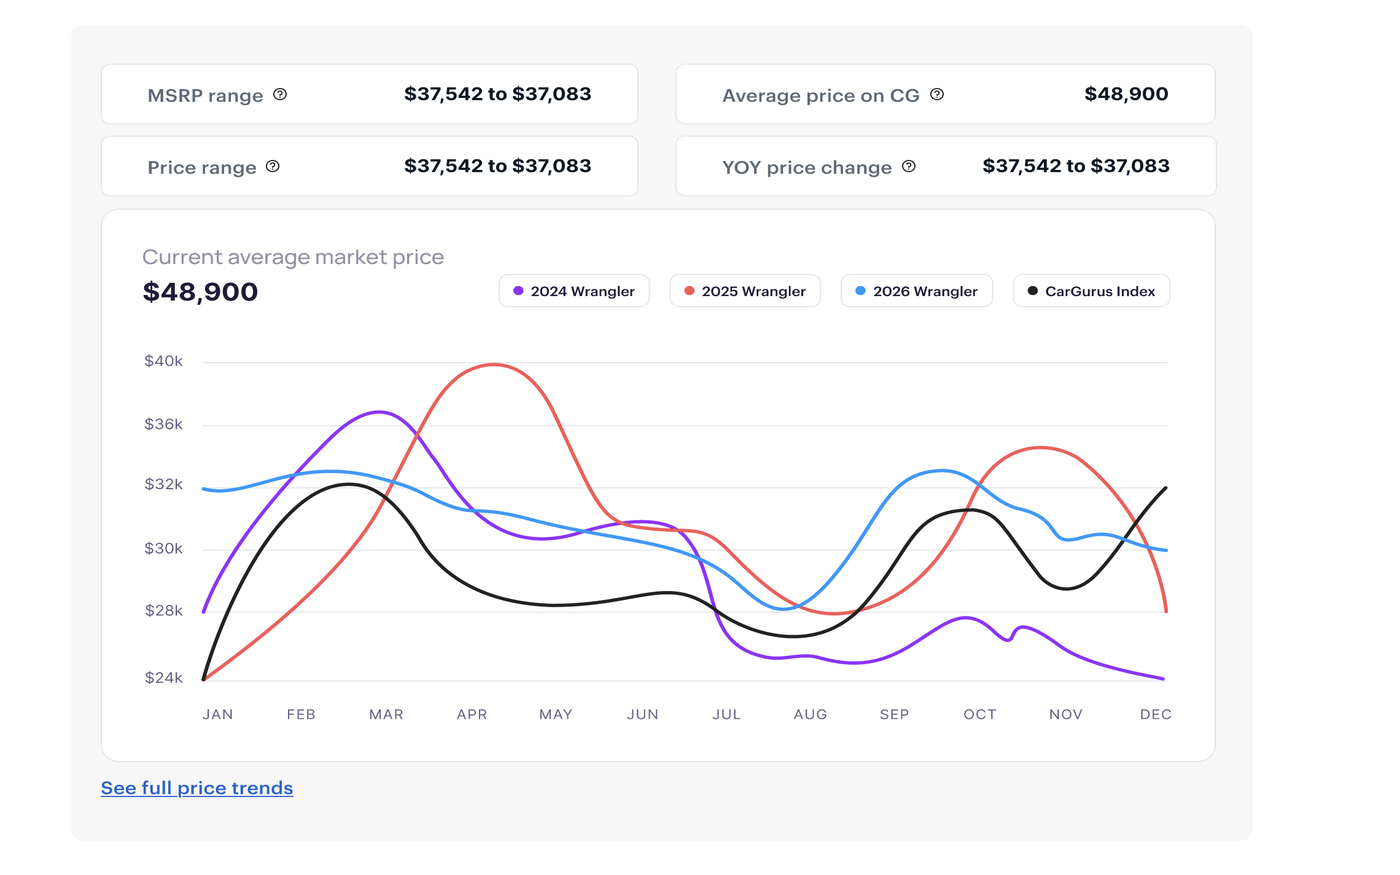
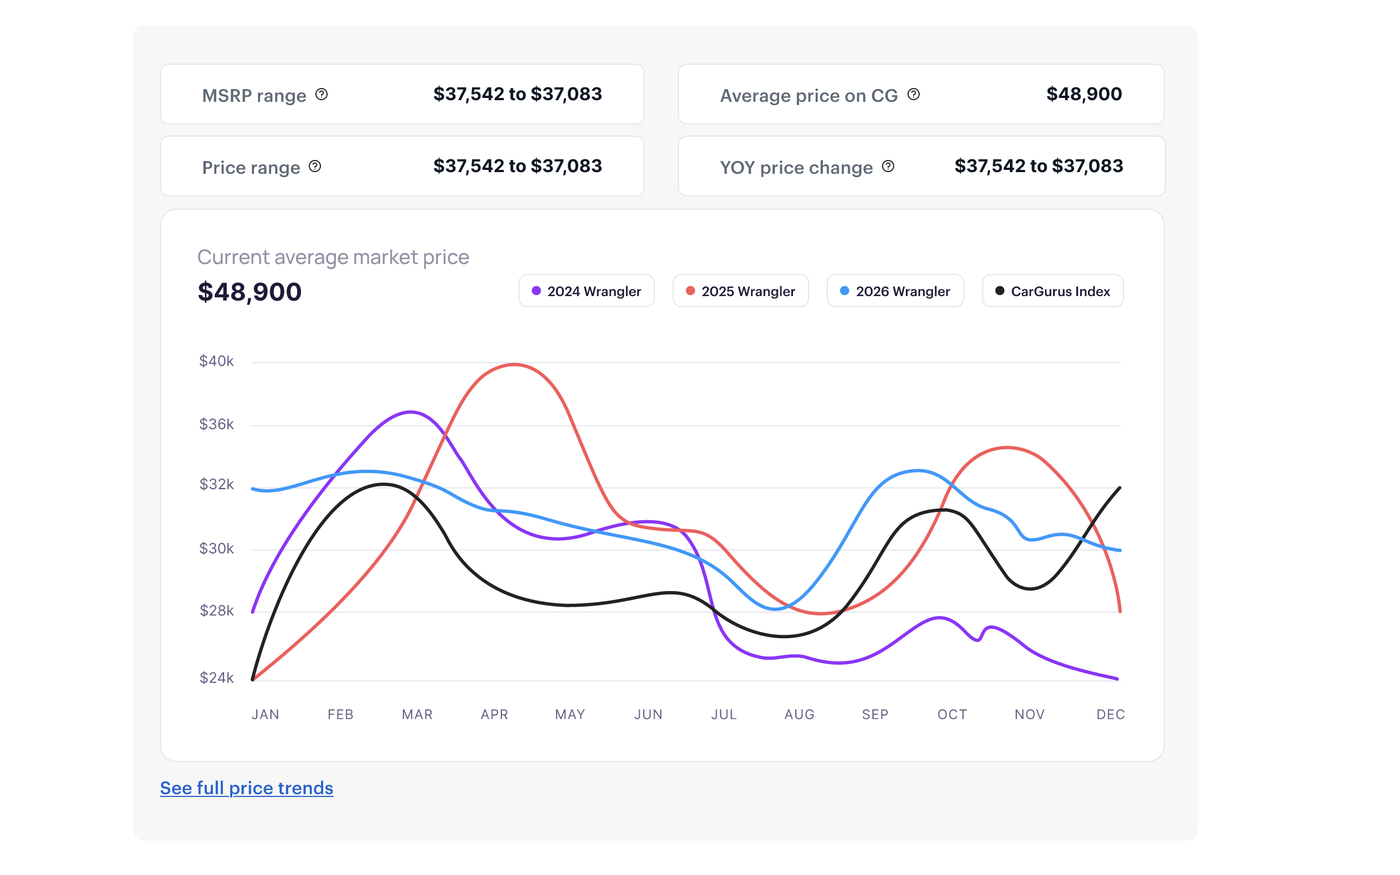
Polish CarGurus and Page to Pillow case studies
- Remove Prototype buttons and unused btn-soft/project-links-header CSS
- Fix header-to-Overview spacing to match section rhythm
- Rewrite CarGurus Overview/Research & Discovery copy to accurately describe
  the redesign (visual hierarchy, matching CarGurus' design system) and
  reword What I Changed to the 3 actual changes (hero/carousel, right rail
  action box, YouTube Shorts module)
- Remove the "section by section" line and the redundant expert-score
  before/after pair; rebalance the pricing after-image crop
- Add home.png/books.png to Page to Pillow's Home & Reading Loop section
  in a new text-beside-phones layout, with scaled-down frame styling

diff --git a/styles.css b/styles.css
@@ -555,8 +555,7 @@ img {
 }
 
 .project-detail-header {
-    margin-bottom: 2rem;
-    padding-bottom: 1.5rem;
+    margin-bottom: 3rem;
 }
 
 .project-detail-header h1 {
@@ -573,7 +572,6 @@ img {
     color: rgb(84, 84, 84);
     line-height: 1.65;
     max-width: 100%;
-    margin-bottom: 1.8rem;
 }
 
 .project-meta {
@@ -600,19 +598,6 @@ img {
     font-family: var(--sans);
     font-size: 1rem;
     color: var(--text);
-}
-
-.project-links-header {
-    display: inline-flex;
-    gap: 0.8rem;
-    flex-wrap: wrap;
-
-    /* Grey field sized to the button. A subtle two-tone gradient (not a flat
-       fill) keeps variation behind the glass so the frosted blur still reads.
-       Swap this for your real content/background whenever you like. */
-    padding: 0;
-    border-radius: 999px;
-    background: linear-gradient(135deg, #e3e3e8 0%, #f4f4f6 52%, #dedee4 100%);
 }
 
 .btn-primary, .btn-secondary {
@@ -648,48 +633,6 @@ img {
 .btn-secondary:hover {
     border-color: var(--text);
     color: var(--text);
-}
-
-/* White pill with gradient border */
-.btn-soft {
-    position: relative;
-    display: inline-flex;
-    align-items: center;
-    padding: 0.65rem 1.7rem;
-    border-radius: 999px;
-    background-image: linear-gradient(#fff, #fff), linear-gradient(90deg, #5099FF, #6E72EC);
-    background-origin: border-box;
-    background-clip: padding-box, border-box;
-    border: 2px solid transparent;
-    color: #1c1c1e;
-    font-family: var(--sans);
-    font-size: 1rem;
-    font-weight: 450;
-    letter-spacing: 0.005em;
-    transition: transform 0.18s ease;
-}
-
-/* CarGurus red/blue brand stroke, matching that project's theme */
-.btn-soft--cargurus {
-    background-image: linear-gradient(#fff, #fff), linear-gradient(90deg, #FF4D7A 0%, #FFB3C6 50%, #FF4D7A 100%);
-}
-
-.btn-soft-label {
-    line-height: 1;
-    padding-bottom: 1px;
-}
-
-.btn-soft:hover {
-    transform: translateY(-1px);
-}
-
-.btn-soft:active {
-    transform: translateY(0);
-}
-
-.btn-soft:focus-visible {
-    outline: none;
-    box-shadow: 0 0 0 3px rgba(110, 114, 236, 0.35);
 }
 
 /* Hero image */
@@ -891,6 +834,46 @@ img {
     gap: 1.2rem;
     margin: 1.5rem auto 3.5rem;
     max-width: 1500px;
+}
+
+/* Text beside a couple of phone screens, instead of a mostly-empty wide grid */
+.split-with-phones {
+    display: flex;
+    align-items: flex-start;
+    gap: 3rem;
+    margin-top: 1.2rem;
+}
+
+.split-text {
+    flex: 1.3;
+    min-width: 0;
+}
+
+.split-phones {
+    display: flex;
+    gap: 1.2rem;
+    flex-shrink: 0;
+    width: 320px;
+}
+
+.split-phones .onboarding-item {
+    flex: 1;
+}
+
+.split-phones .phone-frame {
+    border-radius: 1.3rem;
+    padding: 0.32rem;
+    box-shadow:
+        0 8px 16px -8px rgba(0, 0, 0, 0.25),
+        inset 0 0 0 1.5px rgba(255, 255, 255, 0.08);
+}
+
+.split-phones .phone-screen {
+    border-radius: 0.95rem;
+}
+
+.split-phones .phone-notch {
+    height: 0.6rem;
 }
 
 .onboarding-item img {
@@ -1443,6 +1426,17 @@ img {
 
     .onboarding-images-grid {
         grid-template-columns: repeat(2, 1fr);
+    }
+
+    .split-with-phones {
+        flex-direction: column;
+        align-items: stretch;
+    }
+
+    .split-phones {
+        width: 100%;
+        max-width: 320px;
+        margin: 0 auto;
     }
 
     .before-after-pair {

diff --git a/project1.html b/project1.html
@@ -27,12 +27,6 @@
           <div class="project-detail-header">
               <h1>Page to Pillow</h1>
               <p class="project-subtitle">A wellness app that helps you wind down for sleep, pairing smart sleep scheduling with personalized book recommendations for better bedtime reading.</p>
-
-              <div class="project-links-header">
-                  <a href="https://www.figma.com/proto/32SNyCSzkgurxfrGdzhYcX/SleepApp-Wireframe?node-id=1-2&p=f&t=Is3D1Wkpc7zIrSXq-1&scaling=scale-down&content-scaling=fixed&page-id=0%3A1&starting-point-node-id=1%3A2" target="_blank" class="btn-soft">
-                      <span class="btn-soft-label">Prototype</span>
-                  </a>
-              </div>
           </div>
 
           <!-- Project Content -->
@@ -151,8 +145,30 @@
 
               <section class="content-section">
               <h2>Home & Reading Loop</h2>
+              <div class="split-with-phones">
+              <div class="split-text">
               <p>This is the daily home screen for someone already settled into the app. The morning view reports last night's reading as minutes read against a personal reading goal (a lightweight, guilt-free measure of the habit rather than a sleep score the app has no real way to verify). Directly below, it resumes the book you're in the middle of and previews when tonight's wind-down window opens, so the next action is always one tap away.</p>
               <p>The heart of the app is the reading loop. In the Books library you browse everything available to read and save titles to lists for later, then choose one as tonight's wind-down book. Once it's set, a notification arrives at your personal wind-down time and takes you straight to the Wind-Down screen, where you can read the book, or switch to its audiobook when your eyes are too tired to read. The reminder is the mechanism that turns "I should read more" into actually opening the book, timed to the exact moment your evening should slow down.</p>
+              </div>
+              <div class="split-phones">
+              <div class="onboarding-item">
+              <div class="phone-frame">
+              <div class="phone-notch"></div>
+              <div class="phone-screen">
+              <img src="images/home.png" alt="Home screen with reading progress and wind-down window">
+              </div>
+              </div>
+              </div>
+              <div class="onboarding-item">
+              <div class="phone-frame">
+              <div class="phone-notch"></div>
+              <div class="phone-screen">
+              <img src="images/books.png" alt="Books library for browsing and saving titles">
+              </div>
+              </div>
+              </div>
+              </div>
+              </div>
               </section>
 
               <section class="content-section">

diff --git a/project4.html b/project4.html
@@ -56,12 +56,6 @@
           <div class="project-detail-header">
               <h1>CarGurus SEO TDR Redesign</h1>
               <p class="project-subtitle">Redesigning CarGurus' Test Drive Review pages to balance SEO requirements with a clearer, more trustworthy research experience for car shoppers.</p>
-
-              <div class="project-links-header">
-                  <a href="https://www.figma.com/proto/VaqpLsap89Rt6dcJ2xLajh/SEO-TDR-Redesign?page-id=6153%3A2523&node-id=40000001-7300&viewport=-987%2C295%2C0.15&t=aC8LvhiEdwnkjbym-1&scaling=min-zoom&content-scaling=fixed" target="_blank" class="btn-soft btn-soft--cargurus">
-                      <span class="btn-soft-label">Prototype</span>
-                  </a>
-              </div>
           </div>
 
           <!-- Project Content -->
@@ -102,7 +96,7 @@
               <!-- Redesigned Screens -->
               <section class="content-section">
               <h2>Before & After</h2>
-              <p>The current live page next to the redesign, section by section.</p>
+              <p>The current live page next to the redesign.</p>
               </section>
 
               <div class="before-after-grid">
